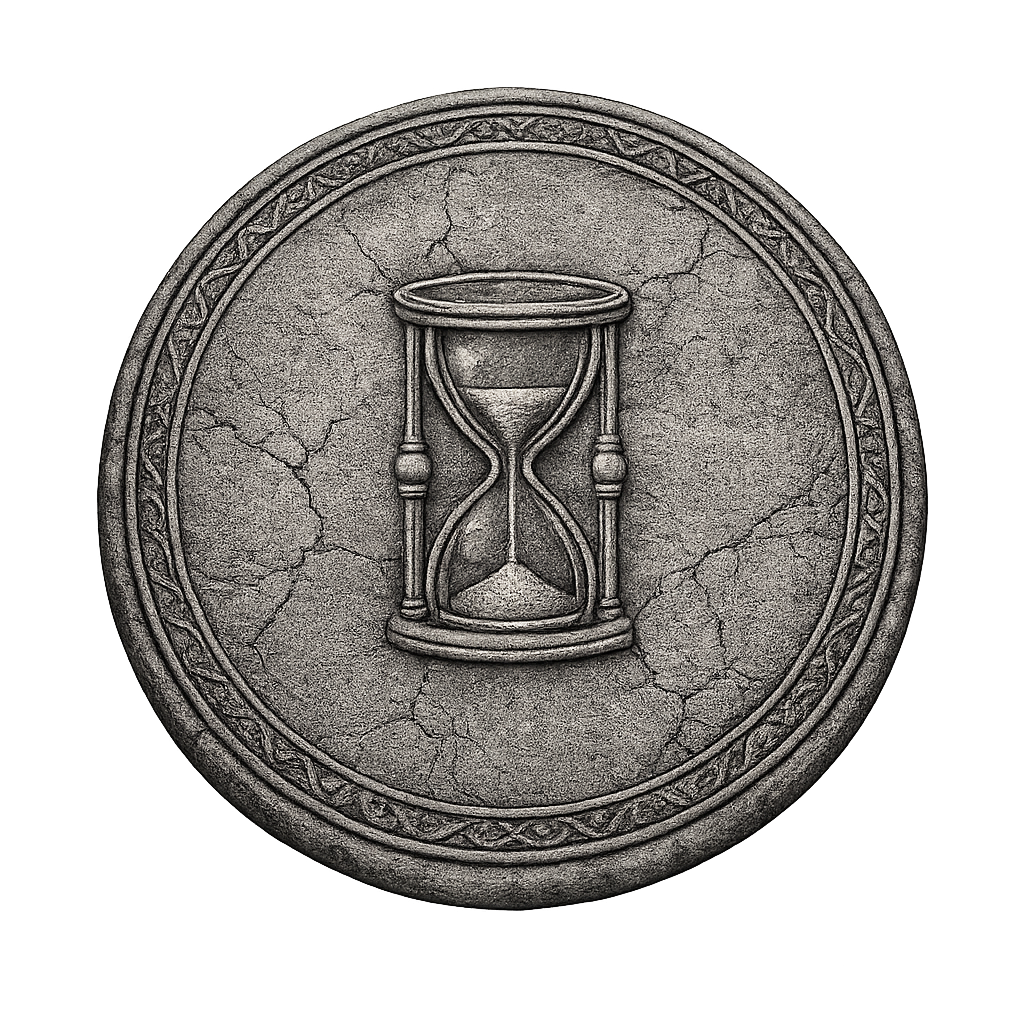
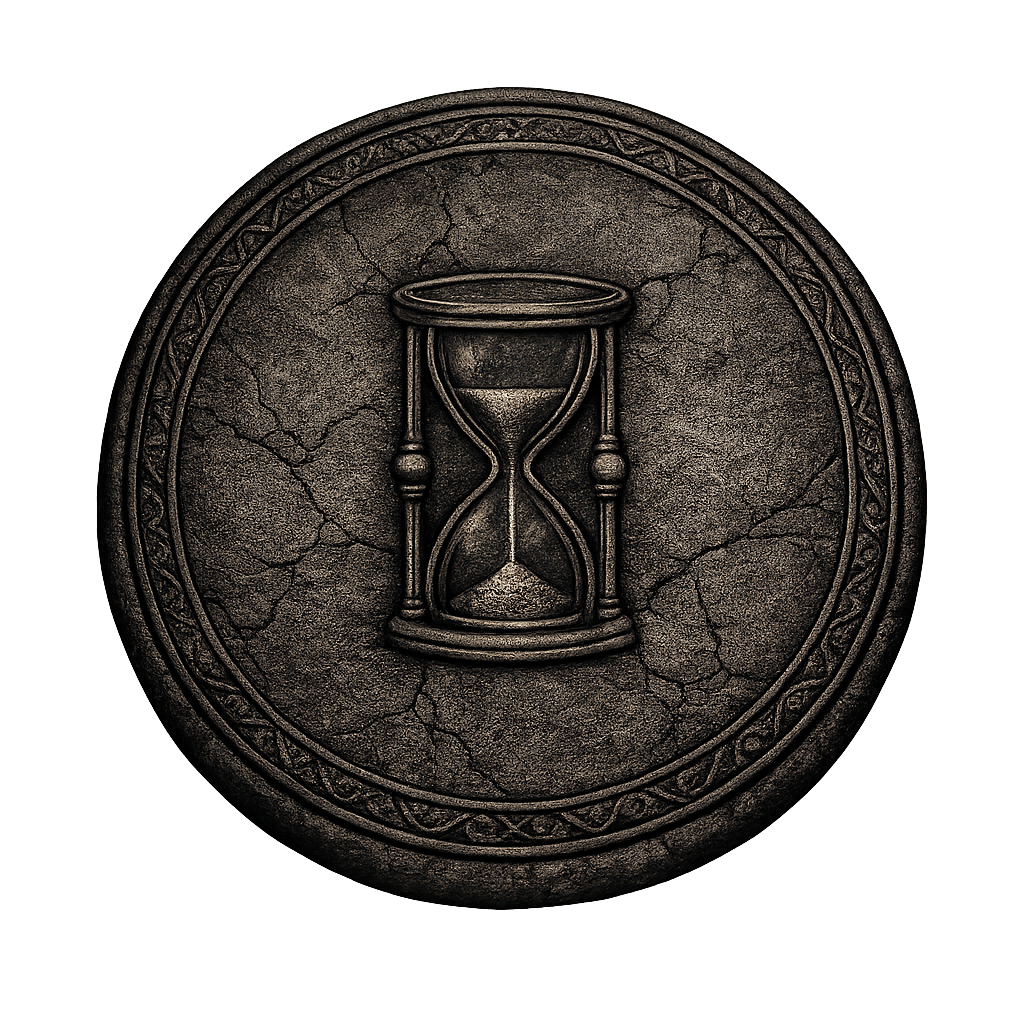
fix(medaillon): darker pierre asset + sw v1164

diff --git a/sw.js b/sw.js
@@ -1,4 +1,4 @@
-const VERSION = 'niyyah-v1163';
+const VERSION = 'niyyah-v1164';
 const CORE = [
   './index.html',
   './script.min.js',